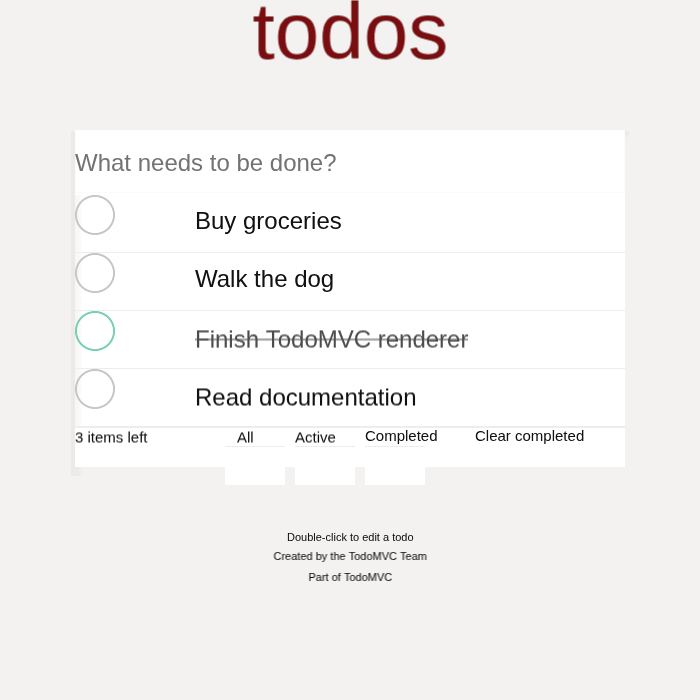
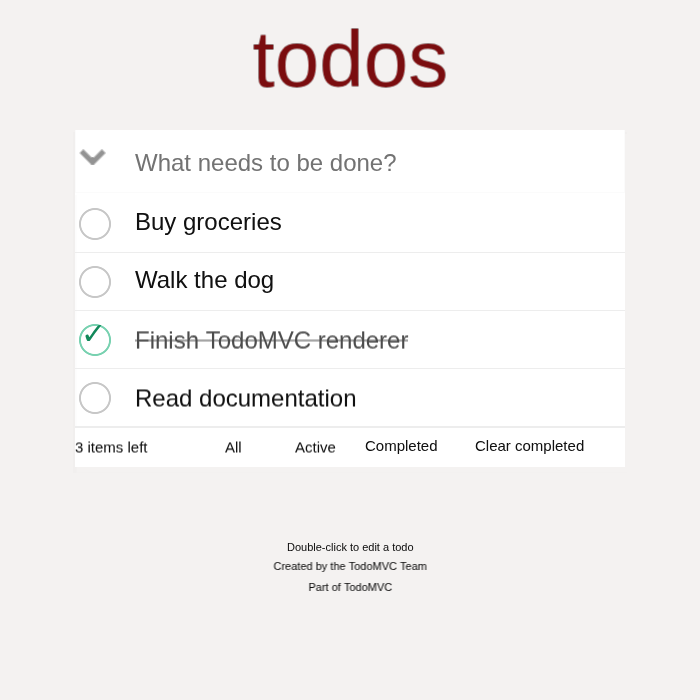
emergent layout

diff --git a/renderer/src/emergent.rs b/renderer/src/emergent.rs
@@ -73,35 +73,39 @@ pub fn render_blocks(
                     }
                 });
 
-            // Clamp footer and list heights to reference values
-            let (h, y) = if el.tag == "footer" && el.classes.contains(&"footer".into()) {
-                (40.0, 427.0)
-            } else if el.tag == "li" {
-                (58.0, el.y)
+            // Clamp footer and todo-row heights to reference values; skip tiny footer lis
+            if el.tag == "li" && el.height < 40.0 {
+                // footer filter items: render only text, no block
             } else {
-                (el.height, el.y)
-            };
+                let (h, y) = if el.tag == "footer" && el.classes.contains(&"footer".into()) {
+                    (40.0, 427.0)
+                } else if el.tag == "li" {
+                    (58.0, el.y)
+                } else {
+                    (el.height, el.y)
+                };
 
-            blocks.push(BlockInstance::new(
-                el.x,
-                y,
-                el.width,
-                h,
-                depth,
-                elev,
-                color,
-            ));
+                blocks.push(BlockInstance::new(
+                    el.x,
+                    y,
+                    el.width,
+                    h,
+                    depth,
+                    elev,
+                    color,
+                ));
 
-        // Row separator lines for list items
-        if el.tag == "li" {
-            overlay_rects.push(RectangleInstance::new(
-                el.x,
-                el.y + el.height - 1.0,
-                el.width,
-                1.0,
-                [0.93, 0.93, 0.93, 1.0], // #ededed
-            ));
-        }
+                // Row separator lines for todo items only
+                if el.tag == "li" {
+                    overlay_rects.push(RectangleInstance::new(
+                        el.x,
+                        el.y + 58.0 - 1.0,
+                        el.width,
+                        1.0,
+                        [0.93, 0.93, 0.93, 1.0], // #ededed
+                    ));
+                }
+            }
         } else if el.tag == "html" || el.tag == "body" {
             // Skip
         } else if let Some(color) = el
@@ -137,14 +141,14 @@ pub fn render_blocks(
                 .unwrap_or([1.0, 1.0, 1.0, 1.0]);
             bg_rects.push(RectangleInstance::new_with_radius(
                 el.x,
-                el.y,
-                el.width,
-                el.height,
+                130.0,
+                550.0,
+                337.0,
                 card_color,
                 4.0,
             ));
         }
-        if el.tag == "li" {
+        if el.tag == "li" && el.height >= 40.0 {
             let row_color = el
                 .background_color
                 .as_ref()
@@ -173,7 +177,7 @@ pub fn render_blocks(
                 el.x,
                 427.0,
                 el.width,
-                40.0,
+                40.0, // match reference footer height now that footer lis are text-only
                 footer_color,
             ));
             overlay_rects.push(RectangleInstance::new(
@@ -183,6 +187,7 @@ pub fn render_blocks(
                 1.0,
                 [0.93, 0.93, 0.93, 1.0],
             ));
+
         }
 
         // Text
@@ -195,10 +200,11 @@ pub fn render_blocks(
             );
             let tw = texture.width as f32;
             let th = texture.height as f32;
-            let y_nudge = if el.y >= 420.0 { 0.0 } else if el.tag == "label" { -1.0 } else { 0.0 };
+            let y_nudge = 0.0;
+            let footer_shift = if el.y >= 420.0 { 10.0 } else { 0.0 };
             let inst = TexturedQuadInstance::new(
                 rendered_text.x,
-                rendered_text.y + y_nudge,
+                rendered_text.y + y_nudge + footer_shift,
                 tw,
                 th,
             );
@@ -219,15 +225,45 @@ pub fn render_blocks(
             } else {
                 [0.78, 0.78, 0.78, 1.0]
             };
+            let size = 32.0;
+            let radius = size * 0.5;
             overlay_rects.push(RectangleInstance::new_border_outline(
-                el.x,
-                el.y,
-                el.width,
-                el.height,
+                el.x + 4.0,                       // center circle in 40px box ( (40-32)/2 = 4 )
+                el.y + (58.0 - size) * 0.5,       // vertical center in 58px row
+                size,
+                size,
                 stroke,
-                (el.width * 0.5).min(20.0),
+                radius,
                 stroke_w,
             ));
+
+            // Checkmark for completed items
+            if el.checked.unwrap_or(false) {
+                if let Some(rendered_text) = text_renderer.render_text_literal(
+                    "✓",
+                    el.x + 6.0,
+                    el.y + 14.0,
+                    30.0,
+                    "rgb(72, 193, 160)",
+                    "Helvetica Neue, Helvetica, Arial, sans-serif",
+                    "400",
+                ) {
+                    let texture = TextTexture::from_rendered_text(
+                        device,
+                        queue,
+                        text_pipeline.bind_group_layout(),
+                        &rendered_text,
+                    );
+                    let inst = TexturedQuadInstance::new(
+                        rendered_text.x,
+                        rendered_text.y,
+                        texture.width as f32,
+                        texture.height as f32,
+                    );
+                    text_instances.push(inst);
+                    text_textures.push(texture);
+                }
+            }
         }
 
         // Input inset shadow (new-todo)
@@ -246,25 +282,53 @@ pub fn render_blocks(
                 [0.0, -2.0],
             ));
         }
+
+        // Chevron for toggle-all label
+        if el.tag == "label" && el.classes.contains(&"toggle-all-label".into()) {
+            if let Some(rendered_text) = text_renderer.render_text_literal(
+                "⌄",
+                el.x + (45.0 - 60.0) * 0.5,            // wider glyph
+                el.y + (65.0 - 60.0) * 0.5 + 16.0,     // move down
+                60.0,                                  // bigger, less sharp
+                "rgb(200, 200, 200)",
+                "Helvetica Neue, Helvetica, Arial, sans-serif",
+                "180",
+            ) {
+                let texture = TextTexture::from_rendered_text(
+                    device,
+                    queue,
+                    text_pipeline.bind_group_layout(),
+                    &rendered_text,
+                );
+                let inst = TexturedQuadInstance::new(
+                    rendered_text.x,
+                    rendered_text.y,
+                    texture.width as f32,
+                    texture.height as f32,
+                );
+                text_instances.push(inst);
+                text_textures.push(texture);
+            }
+        }
     }
 
     // Soft shadow under the main card
     for el in &layout.elements {
         if el.tag == "section" && el.classes.contains(&"todoapp".into()) {
-            let expand = 4.0;
+            let expand = 2.0;
             shadows.push(crate::shadow_pipeline::ShadowInstance::new_dual_layer(
                 el.x - expand,
-                el.y - expand + 5.0,
+                el.y - expand + 4.0,
                 el.width + expand * 2.0,
                 el.height + expand * 2.0,
                 el.width,
                 el.height,
-                [0.0, 0.0, 0.0, 0.028],
-                5.0,
-                [0.0, 6.0],
-                [0.0, 0.0, 0.0, 0.007],
-                12.0,
-                [0.0, 10.0],
+                [0.0, 0.0, 0.0, 0.010],
+                1.6,
+                [0.0, 2.2],
+                [0.0, 0.0, 0.0, 0.0028],
+                4.5,
+                [0.0, 4.0],
             ));
             break;
         }

diff --git a/renderer/src/text_renderer.rs b/renderer/src/text_renderer.rs
@@ -119,24 +119,18 @@ impl TextRenderer {
             });
         let text_height = ascent + descent;
 
-        // Calculate x position based on text alignment
-        let should_center = element.text_align.as_deref() == Some("center")
-            || (element.tag == "a" && element.classes.contains(&"selected".to_string()));
-
-        // Default x positioning
-        let mut x_position = if should_center {
-            // Center text within element width
-            element.x + (element.width - text_width as f32) / 2.0
-        } else {
-            element.x
-        };
-        // Todo item labels should start to the right of the checkbox
-        if element.tag == "label" && !element.classes.contains(&"toggle-all-label".to_string()) {
-            // Prefer explicit padding-left from captured layout; fallback to proportional offset
+        // Horizontal positioning
+        let mut x_position = element.x;
+        let center_text = element.text_align.as_deref() == Some("center")
+            || element.tag == "h1"
+            || element.tag == "p";
+        if center_text && text_width > 0 {
+            x_position = element.x + (element.width - text_width as f32) / 2.0;
+        }
+        // Placeholder padding
+        if placeholder_mode {
             if let Some(pad) = Self::parse_px(element.padding_left.as_deref()) {
                 x_position = element.x + pad;
-            } else {
-                x_position = element.x + element.width * 0.109;
             }
         }
 
@@ -205,12 +199,69 @@ impl TextRenderer {
         let pad_top = Self::parse_px(element.padding_top.as_deref()).unwrap_or(0.0);
         let pad_bottom = Self::parse_px(element.padding_bottom.as_deref()).unwrap_or(0.0);
         let content_height = (element.height - pad_top - pad_bottom).max(0.0);
-        let text_top = element.y + pad_top + (content_height - text_height) / 2.0;
+        let mut text_top = element.y + pad_top + (content_height - text_height) / 2.0;
+        if element.tag == "h1" {
+            text_top += 28.0; // nudge title down to clear top margin
+        }
         let y_position = text_top - padding as f32;
 
         Some(RenderedText {
             x: x_position - padding as f32, // Subtract padding because text is drawn at offset `padding` inside canvas
             y: y_position,
+            width: canvas_width,
+            height: canvas_height,
+            image_data: rgba_data,
+        })
+    }
+
+    /// Render arbitrary text with provided font settings (used for footer fallback).
+    pub fn render_text_literal(
+        &mut self,
+        text: &str,
+        x: f32,
+        y: f32,
+        font_size: f32,
+        color: &str,
+        font_family: &str,
+        font_weight: &str,
+    ) -> Option<RenderedText> {
+        if text.trim().is_empty() {
+            return None;
+        }
+
+        let font_str = format!("{} {}px {}", font_weight, font_size, font_family);
+        self.context.set_font(&font_str);
+
+        let metrics = self.context.measure_text(text).ok()?;
+        let text_width = metrics.width() as u32;
+        let ascent = metrics.actual_bounding_box_ascent();
+        let descent = metrics.actual_bounding_box_descent();
+        let text_height = ascent + descent;
+
+        let padding = 2;
+        let canvas_width = text_width + padding * 2;
+        let canvas_height = (text_height.ceil() as u32) + padding * 2;
+
+        self.canvas.set_width(canvas_width);
+        self.canvas.set_height(canvas_height);
+        self.context.set_font(&font_str);
+        self.context.set_fill_style_str(color);
+        self.context
+            .clear_rect(0.0, 0.0, canvas_width as f64, canvas_height as f64);
+        let baseline_y = padding as f32 + ascent as f32;
+        self.context
+            .fill_text(text, padding as f64, baseline_y as f64)
+            .ok()?;
+
+        let image_data = self
+            .context
+            .get_image_data(0.0, 0.0, canvas_width as f64, canvas_height as f64)
+            .ok()?;
+        let rgba_data = image_data.data().0;
+
+        Some(RenderedText {
+            x: x - padding as f32,
+            y: y - padding as f32,
             width: canvas_width,
             height: canvas_height,
             image_data: rgba_data,

diff --git a/tools/src/commands/screenshot.rs b/tools/src/commands/screenshot.rs
@@ -124,6 +124,25 @@ pub fn run(url: &str, output: &str, width: u32, height: u32, _headed: bool) -> R
             }
         }
 
+        if let Ok(val) = page
+            .evaluate("() => window.__footer_text_count ?? null")
+            .await
+        {
+            if let Ok(Some(cnt)) = val.into_value::<Option<f64>>() {
+                println!("  Footer text count: {}", cnt);
+            }
+        }
+        if let Ok(val) = page
+            .evaluate("() => window.__footer_debug ?? null")
+            .await
+        {
+            if let Ok(Some(dbg)) = val.into_value::<Option<String>>() {
+                if !dbg.is_empty() {
+                    println!("  Footer debug: {}", dbg);
+                }
+            }
+        }
+
         // Debug: report emergent counts if present
         if let Ok(val) = page
             .evaluate("() => typeof window.__emergent_counts === 'string' ? window.__emergent_counts : null")
